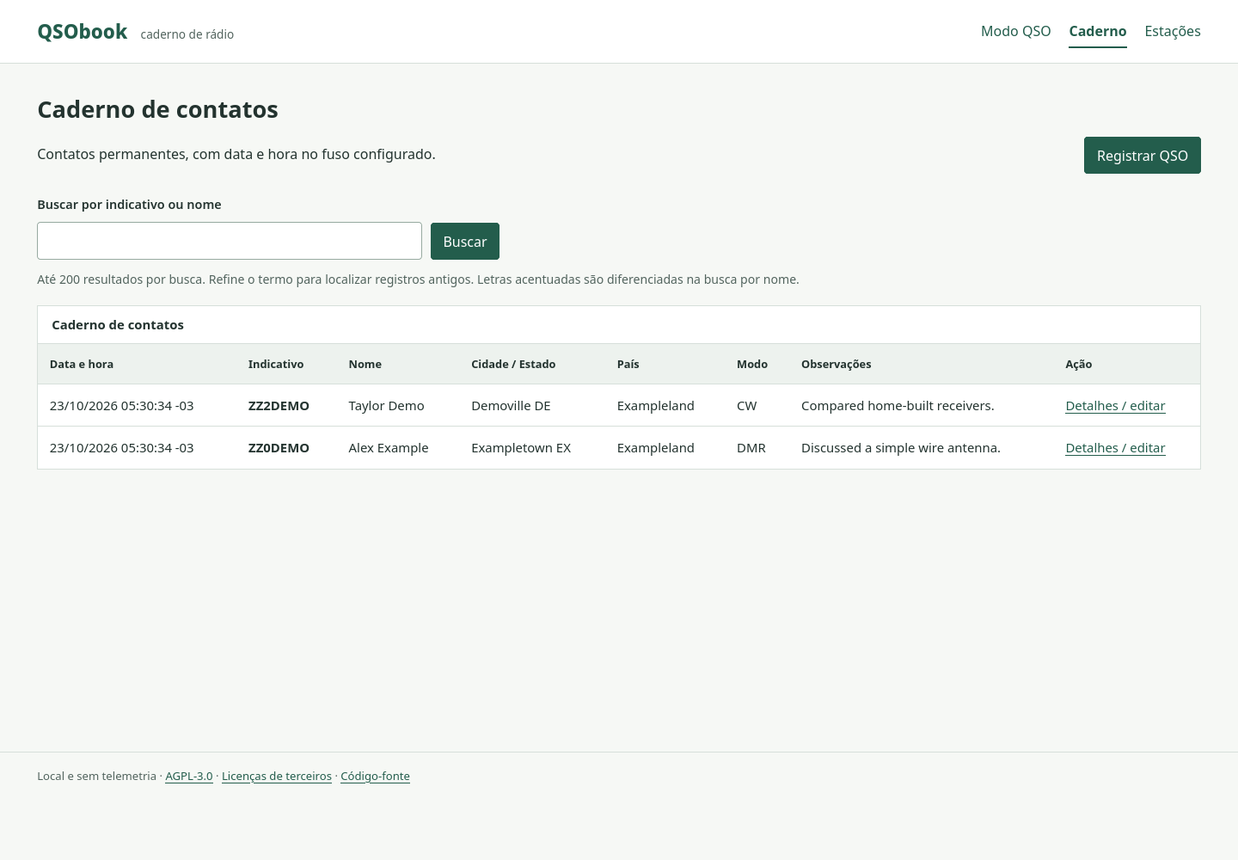
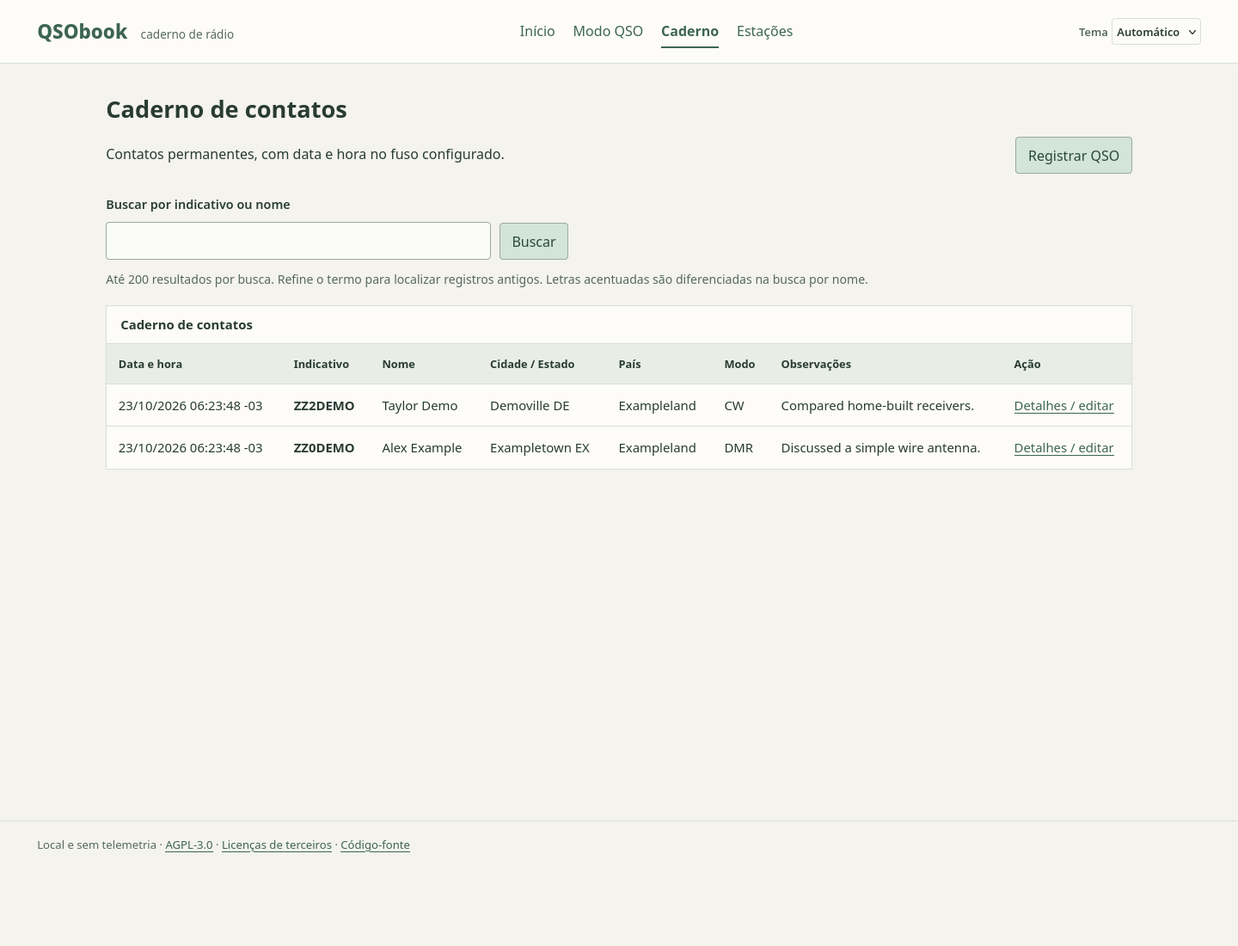
docs: explain themed rounds and optional maps with current screenshots

diff --git a/README.md b/README.md
@@ -2,21 +2,37 @@
 
 A small, free, self-hosted amateur radio notebook. Keep track of operators during a roundtable and record only the contacts you actually confirm.
 
-Built with **Go, SQLite, HTML, CSS and plain JavaScript**, under [AGPL-3.0](LICENSE). No accounts, telemetry, analytics, CDNs or external callsign lookups. The application runs offline after compilation. The interface is currently in Brazilian Portuguese; this documentation is in English.
+Built with **Go, SQLite, HTML, CSS and plain JavaScript**, under [AGPL-3.0](LICENSE). No accounts, telemetry, analytics, CDNs or external callsign lookups. The notebook runs offline after compilation. The optional OpenStreetMap map requires internet only when enabled. The interface is currently in Brazilian Portuguese; this documentation is in English.
+
+## A calm home screen
+
+The home screen shows the number of confirmed contacts, an optional city map and a direct way to start or resume a roundtable. There are no timers, charts or extra dashboard indicators. **Modo QSO** opens the conversation workspace; **Caderno** opens confirmed history; **Estações** opens reusable operator records.
+
+![Home screen with a contact total, a current roundtable and the map awaiting opt-in](docs/screenshots/dashboard.png)
 
 ## QSO mode: follow the conversation
+
+Choose **Iniciar QSO** (Start QSO), optionally name the roundtable, and add participants. The start action opens a roundtable; it does not confirm a contact. Only one roundtable can be open at a time, and it survives browser/server restarts.
 
 Add a callsign, name and city without leaving the current roundtable. Known callsigns recover their operator details from the local database. The table puts callsign, name, city/state and notes first; mode and country stay secondary.
 
 ![QSO mode showing participants, separate operator and conversation notes, and explicit QSO confirmation](docs/screenshots/qso-mode.png)
 
-All screenshots use fictitious operators, callsigns and locations. The example roundtable includes two confirmed contacts and one participant still waiting for confirmation. No personal database is included.
+Screenshots use demonstration data with fictitious operators and callsigns. The example roundtable includes two confirmed contacts and one participant marked QRT without a confirmed contact. No personal database is included.
 
 **Adding a participant does not record a QSO.** Click **Registrar QSO** (Record QSO) once you have actually made contact. Repeated or simultaneous confirmations create at most one QSO for that participation. Adding someone already in the list preserves their mode, conversation notes and confirmation status.
 
-Use **Editar** (Edit) to open an editor in the table. Country and conversation notes are available in an expandable section. Without JavaScript, the same edit link opens a separate page and the forms remain usable.
+Use **Mais → Editar** (More → Edit) to open an editor in the table. Country and conversation notes are available in an expandable section. Without JavaScript, the same edit link opens a separate page and the forms remain usable.
 
-The current roundtable is shared by browser tabs and survives restarts. Removing someone keeps their operator record and confirmed contacts. To record another contact with the same operator, remove and add them again. Removed participation IDs are never reused, so old record/remove forms cannot affect a later participation.
+Click **QRT** when someone leaves. They remain in the table, after active participants; **Voltou** (Returned) makes them active again. Neither action records a QSO or resets its confirmation. **Encerrar QSO** (End QSO) closes the roundtable and preserves participants, notes and confirmed contacts. Closed roundtables can be consulted from the home screen and cannot be changed through old forms.
+
+The current roundtable is shared by browser tabs. Removing someone from the list retains their participation in storage, operator record and confirmed contacts. A new roundtable reuses known operators with a fresh participation and an independent confirmation. For an additional contact within the same roundtable, remove and add the operator again. Participation IDs are never reused; old actions cannot reach the new participation. Start and end actions also handle repeated submissions safely.
+
+## Light and dark, without clutter
+
+A muted pastel palette, clear typography and compact controls keep the conversation table central. Choose **Claro** (Light), **Escuro** (Dark) or **Automático** (System) using the theme selector. The preference stays in the current browser, without an account or network request. If browser storage is blocked, switching still works for the current page.
+
+![QSO mode in the dark theme, with active participants and one QRT participant](docs/screenshots/qso-dark.png)
 
 ## Local callsign lookup and safe notes
 
@@ -43,6 +59,26 @@ Timestamps are stored in UTC and displayed in the configured time zone. Searches
 The **Estações** (Stations) page keeps operator details separate from contact history. Callsigns are unique and normalized to uppercase. Edit names, locations and permanent notes here without rewriting past contacts.
 
 ![Local operator registry with the three fictitious callsigns and their locations](docs/screenshots/operators.png)
+
+## Optional map of confirmed contacts
+
+Enable the map explicitly on the home screen. It groups **confirmed QSO locations**, using the historical city/state/country from each contact rather than a later operator registration edit. Each point represents an approximate city location; selecting it opens the contacts for that city. Contacts without a city are counted in the total but have no map point. The city list and history remain usable offline and without JavaScript.
+
+Expand the city list and choose **Localizar cidade** (Locate city) once for each unmapped city. This sends only the saved city, state and country to the configured geocoder. Callsigns, names and notes stay local. Coordinates and not-found results are cached in SQLite, so reopening the map or repeating a submission does not repeat the lookup. A cached not-found result currently has no retry/reset editor; check the contact location before the first lookup.
+
+![Optional map with a city point for a fictitious contact in São Paulo](docs/screenshots/contact-map.png)
+
+The default providers are OpenStreetMap tiles and Nominatim. Enabling the map permits the tile provider to receive the browser IP, viewed area, browser headers and the application origin as its Referer. The geocoder sees the server IP and geographic query. Disabling the map removes it on reload, blocks new geocoding requests and retains cached coordinates. Reload any other already-open map tabs as well. The preference applies to this local notebook and its browser tabs.
+
+Follow the [Nominatim usage policy](https://operations.osmfoundation.org/policies/nominatim/): deliberate user-triggered searches only, no autocomplete or periodic batch work, an identifying User-Agent, local caching and at most one request per second. QSObook serializes requests through a database lease, enforces a gap after completion, bounds provider timeouts and respects retry delays. Operators running multiple independent instances must consider their combined usage and switch providers if required. The [tile policy](https://operations.osmfoundation.org/policies/tiles/) requires attribution, normal viewport use and normal HTTP caching; no bulk/offline tile download is offered. Provider availability is not guaranteed.
+
+Provider URLs can be changed without updating the application, for example to use self-hosted services:
+
+```sh
+./bin/qsobook -map-tiles-url 'https://tiles.example.org/{z}/{x}/{y}.png' -geocoder-url 'https://geo.example.org/search'
+```
+
+Tiles must be compatible with Leaflet's XYZ format and geocoding must accept Nominatim's structured query and JSON format. URLs require HTTPS, with HTTP allowed for loopback services. Review a provider's privacy and usage terms before enabling it. Leaflet 1.9.4 and its assets are embedded locally under BSD-2-Clause; no runtime CDN, npm toolchain or Leaflet plugin is used.
 
 ## Build
 
@@ -85,9 +121,9 @@ The default time zone is `America/Sao_Paulo`; use `-timezone UTC` for UTC displa
 
 Stop the application and every other process using its database before making a manual copy. Preserve any SQLite journal files. Do not copy only the `.db` file while it is in use. Test a copy at a separate path before relying on it.
 
-Database migrations run in a transaction and retain operator, contact and participation records. Schema version 2 makes participation IDs persistent and non-reusable, retaining existing IDs and QSO links. Databases with a newer schema are rejected; downgrades are not automatic. Make a stopped-database copy before upgrading.
+Database migrations run in a transaction and retain operator, contact and participation records. Schema version 4 includes persistent non-reusable participation IDs, named roundtables, presence status, optional map preferences and cached city coordinates. The previous live list becomes “Rodada anterior” during migration, retaining IDs and QSO links; an empty database waits for an explicit start. Databases with a newer schema are rejected; downgrades are not automatic. Make a stopped-database copy before upgrading.
 
-There is no in-app backup/restore, import/export, ADIF or map feature yet. The application does not permanently delete operators or QSOs. See the [roadmap](docs/ROADMAP.md).
+There is no in-app backup/restore, import/export or ADIF feature yet. The application does not permanently delete operators or QSOs. See the [roadmap](docs/ROADMAP.md).
 
 ## Tests
 
@@ -97,15 +133,15 @@ CGO_ENABLED=0 go vet ./...
 git diff --check
 ```
 
-Tests use temporary databases and fictitious data. They cover persistence, validation, historical snapshots, independent notes, rollback, concurrent confirmation, callsign reuse, HTTP security and migrations from schema version 1. Migration tests verify that records and links survive, failures roll back and removed participation IDs stay unused after reopening the database.
+Tests use temporary databases and fictitious data. They cover persistence, validation, historical snapshots, independent notes, rollback, concurrent confirmation, callsign reuse, round lifecycle/QRT, stale actions, map opt-in, geographic-only requests, local/negative caches, rate limits, provider failures, HTTP security and migrations from earlier schemas. Automated map tests use local HTTP providers, never public geocoding services. Migration tests verify that records and links survive, failures roll back and removed participation IDs stay unused after reopening the database.
 
 JavaScript tests optionally use Node.js and its built-in test runner:
 
 ```sh
-node --test tests/app.test.cjs
+node --test tests/*.test.cjs
 ```
 
-No npm packages are required. The tests run `static/app.js` against a simulated DOM with controlled requests and timers. They do not replace real browser testing.
+No npm packages are required. The tests run lookup/form behavior against a simulated DOM with controlled requests and timers, and verify theme persistence, system changes and unavailable browser storage. They do not replace real browser testing.
 
 To keep development caches and temporary files inside the repository:
 
@@ -117,7 +153,7 @@ export GOTMPDIR="$PWD/.cache/tmp"
 export TMPDIR="$PWD/.cache/tmp"
 ```
 
-The UI uses labels, visible keyboard focus, responsive forms and horizontal scrolling confined to the participant table. Desktop layout, lookup and inline editing have been checked in the browser, along with dimensions at phone/tablet widths. POSTs in the integrated browser were blocked by its mediated origin; writes were checked through HTTP tests and valid-origin local requests. Full testing on a physical phone and with assistive technology remains pending. Security controls were kept in place.
+The UI uses labels, visible keyboard focus, responsive forms and horizontal scrolling confined to the participant table. Desktop layout, local lookup, theme selection/persistence and phone/tablet widths have been checked in the browser. A real geographic-only Nominatim request, loaded OpenStreetMap tiles, a city marker and its filtered-history link were also checked with fictitious contact data. POSTs in the integrated browser were blocked by its mediated origin; writes were checked through HTTP tests and valid-origin local requests. Full testing on a physical phone and with assistive technology remains pending. Security controls were kept in place.
 
 ## Manual QSO checklist
 
@@ -127,33 +163,40 @@ Use a separate database for fictitious test records:
 ./bin/qsobook -db .cache/manual-test.db -addr 127.0.0.1:8081
 ```
 
-1. Open `http://127.0.0.1:8081`. Add `ZZ0TEST`, a name and city. The participant should appear in QSO mode without a new contact in the Notebook.
-2. Use **Editar**, expand the conversation notes section, add a note and save in place.
+1. Open `http://127.0.0.1:8081`, choose **Iniciar QSO**, optionally name the roundtable and start it. Add `ZZ0TEST`, a name and city. The participant should appear in QSO mode without a new contact in the Notebook.
+2. Use **Mais → Editar**, expand the conversation notes section, add a note and save in place.
 3. In Stations, save a different permanent operator note. QSO mode should label the permanent and conversation notes separately.
 4. Enter `zz0test` again. Name and location should fill locally while conversation notes stay empty. An immediate submission, empty fields or a stale inclusion form must not replace saved operator data or duplicate the participation.
 5. Click **Registrar QSO**. Check for one contact in the Notebook with the conversation note. Reloading must not create another QSO.
 6. Edit the operator and roundtable notes. The confirmed contact should keep its historical values.
 7. Switch rapidly between callsigns and clear the callsign field. Check that drafts and asynchronous responses never mix operators.
 8. In a second tab, keep an old record/remove form open. Remove that participant and add another in the first tab. The old action should return not found and leave the new participant untouched.
-9. Stop and restart with the same database. Records and the roundtable should persist. Also check keyboard navigation and the fallback without JavaScript.
+9. Mark a participant **QRT**, then **Voltou**. Confirm that presence changes without a new QSO. End the roundtable, consult it from the home screen and start a new one with the same operator. The old roundtable and contacts should remain intact.
+10. Choose light, dark and system themes, then navigate/reload. Stop and restart with the same database. Check persistence, keyboard navigation and the fallback without JavaScript.
+11. The map starts disabled. Enable it after reading the disclosure, locate a city with a confirmed contact, reload and open its marker/history. Disable it and confirm the local notebook remains usable without map requests. Public providers must only be exercised manually and sparingly; use fake local providers for automated tests.
 
 ## Structure and maintenance
 
 ```text
 main.go                 configuration and HTTP lifecycle
 store.go                SQLite operations and validation
+rounds.go               saved roundtables, presence and lifecycle
+map.go                  optional providers and local coordinate cache
+web_rounds.go           home screen and roundtable HTTP workflows
 web.go                  routes, templates and HTTP protection
 store_test.go           persistence and data integrity tests
 migration_test.go       migration preservation and rollback tests
 web_test.go             HTTP workflows and security tests
-tests/app.test.cjs       JavaScript regressions using built-in modules
+rounds_test.go          lifecycle, QRT and migration regressions
+map_test.go             privacy, cache and provider-failure regressions
+tests/*.test.cjs        JavaScript regressions using built-in modules
 migrations/             versioned SQL schema
 templates/              HTML interface
 static/                 local CSS and JavaScript
 docs/                   architecture, roadmap and screenshots
 ```
 
-The only direct dependency is `modernc.org/sqlite v1.36.3`, a BSD-3-Clause SQLite driver without CGO. Transitive dependencies are pinned in `go.mod`/`go.sum`. See [architecture](docs/ARCHITECTURE.md), [CONTRIBUTING.md](CONTRIBUTING.md) and [AGENTS.md](AGENTS.md). Changes use maintainer review; the application itself does not perform Git operations.
+The only direct Go dependency is `modernc.org/sqlite v1.36.3`, a BSD-3-Clause SQLite driver without CGO. Transitive dependencies are pinned in `go.mod`/`go.sum`. See [architecture](docs/ARCHITECTURE.md), [CONTRIBUTING.md](CONTRIBUTING.md) and [AGENTS.md](AGENTS.md). Changes use maintainer review; the application itself does not perform Git operations.
 
 ## License
 

diff --git a/docs/ARCHITECTURE.md b/docs/ARCHITECTURE.md
@@ -2,7 +2,7 @@
 
 ## Organization
 
-A Go monolith: browser → `net/http` → `html/template` / SQLite operations → a local file. There is one `main` package, without an ORM, SPA or web framework. `main.go` composes configuration, storage and the HTTP server; `web.go` handles HTTP; `store.go` contains persistence and validation. Templates, static assets, migrations, time-zone data and license notices are embedded in the executable. Callsign lookup requests stay local.
+A Go monolith: browser → `net/http` → `html/template` / SQLite operations → a local file. There is one `main` package, without an ORM, SPA or web framework. `main.go` composes configuration, storage and the HTTP server; `web.go` handles core HTTP, `web_rounds.go` composes the home/round workflows, `store.go` contains operator/contact persistence and validation, `rounds.go` manages round lifecycles, and `map.go` implements optional city lookup/cache operations. Templates, static assets, migrations, time-zone data and license notices are embedded in the executable. Callsign lookup requests stay local.
 
 ## SQLite driver and dependencies
 
@@ -18,11 +18,14 @@ Native Linux ARM64 builds and tests are supported without CGO. Current validatio
 
 - `stations`: current operator registration, with a normalized unique callsign, name, city, state, country and permanent notes. A callsign identifies a station; no license verification or external lookup is performed.
 - `qsos`: confirmed contacts linked to a station, with a UTC timestamp, mode, conversation notes and a historical copy of operator details. Registration edits do not change earlier contacts. Editing one contact changes only its copy; callsign and timestamp stay fixed.
-- `participants`: the single current roundtable, with one participation per station, its own mode and conversation notes, and an optional confirmed QSO reference. It persists across restarts and is shared by browser tabs.
+- `rounds`: optional name, UTC start and optional end time. A partial unique index allows only one open roundtable. Closed rounds remain in storage; the home screen lists the latest 50.
+- `participants`: round-scoped participation with its own mode, conversation notes, active/QRT state, optional confirmed QSO reference and optional removal timestamp. A partial unique index permits one visible participation per station per round. Removal hides the entry without deleting it. Participation IDs remain non-reusable.
+- `app_settings`: map opt-in (disabled by default) and a persistent bounded geocoding lease/cooldown.
+- `city_coordinates`: city/state/country keys with cached coordinates or a cached not-found result. The dashboard groups historical confirmed QSO locations, not current station locations.
 
 New participant, manual QSO and registration forms only complete missing fields for existing callsigns. Saved nonempty values take priority over submitted data, including a stale lookup result. Replacing values requires an explicit edit by ID. Empty fields in a participation edit preserve the registration. Conversation flows never write permanent operator notes. The registration editor permits intentionally clearing fields. Explicit concurrent edits still use the last saved values; no version conflict detection is implemented.
 
-Adding someone does not confirm a contact. A repeated addition preserves the existing participation mode, notes and QSO reference; an explicit edit can change the mode or clear conversation notes. Participation writes and registration updates share one transaction. Editing a removed participation does not recreate it. Removing someone retains the operator and confirmed contacts. A later contact with that operator requires removing and adding them again.
+Adding someone does not confirm a contact. A repeated addition preserves the existing participation mode, notes and QSO reference; an explicit edit can change the mode or clear conversation notes. Participation writes and registration updates share one transaction. Editing a removed participation does not recreate it. QRT/return only changes presence. Ending a round retains its participants and confirmed contacts; it never confirms pending participants. New rounds reuse registrations and create independent participations. For another contact within a round, remove and add the operator again. Closed/removed participation actions are rejected before registration updates. Participant edits carry both round and participation IDs, so an old edit cannot reach a re-added operator. Closed round displays use current registration details, explicitly labeled as such; confirmed QSOs retain historical copies.
 
 Confirmation uses a transaction to check the QSO reference, insert the historical copy and conversation notes, and link the QSO atomically. Repeated and simultaneous confirmations cannot duplicate a contact for that participation. Later registration or participation edits do not change the snapshot. Manual QSO creation also updates the operator and inserts its contact in one transaction; every manual submission intentionally represents a new contact.
 
@@ -32,6 +35,9 @@ SQLite uses one connection per process, `foreign_keys=ON`, `busy_timeout=5000` a
 
 - `001_initial.sql` creates the original station, QSO and participant tables.
 - `002_participant_identity.sql` retains all existing participant rows, IDs and QSO links while rebuilding that table with `INTEGER PRIMARY KEY AUTOINCREMENT`. Deleted participation IDs are not reused, including after restarts. Old record/remove forms return not found instead of affecting a new participation.
+
+- `003_rounds.sql` adds named rounds, presence/removal state and QSO round references. A legacy live list becomes “Rodada anterior”, preserving records, links and the AUTOINCREMENT high-water mark even when the old list was empty.
+- `004_map.sql` adds opt-in settings, a geographic coordinate cache and a QSO city index. It sends no network requests and leaves the map disabled.
 
 The complete migration commits only on success. Failure rolls back both data and schema changes. Migration tests cover retained operators, historical contacts, notes, links, ID sequence persistence, SQLite integrity, foreign keys and failure rollback. There is no automatic downgrade: copy the stopped database before upgrading and restart the updated application so old forms receive a new CSRF token.
 
@@ -47,7 +53,7 @@ Callsigns accept 1–32 ASCII characters: letters, numbers, `/`, `.` and `-`, st
 
 The server accepts loopback IPs only, defaulting to `127.0.0.1:8080`. External Host headers are rejected to reduce DNS rebinding risk. Writes use POST, a cryptographically random per-run CSRF token, constant-time comparison and Origin verification when present. The token does not authenticate users; old forms need reloading after a restart. Form bodies are limited to 32 KiB, with HTTP header and timeout limits. Mutable values come from the POST body.
 
-`html/template` escapes values. CSP restricts resources to the local origin and blocks frames, inline scripts and external form submission. Responses set `nosniff`, `no-referrer`, frame protection and `Cache-Control: no-store`. Internal errors and form contents are not logged or shown to users. Standard server connection errors may appear in operational logs without application records. No security exception was introduced for screenshots or the integrated browser.
+`html/template` escapes values. CSP restricts resources to the local origin and blocks frames, inline scripts and external form submission. Only the opted-in home page additionally permits images from the configured tile origin. A Leaflet tile-image `referrerPolicy=origin` satisfies the tile provider requirement without sharing query paths or operator details; the global no-referrer policy is retained. Responses set `nosniff`, `no-referrer`, frame protection and `Cache-Control: no-store`. Internal errors and form contents are not logged or shown to users. Standard server connection errors may appear in operational logs without application records. No security exception was introduced for screenshots or the integrated browser.
 
 The main UI is a table with semantic HTML, labels and visible keyboard focus. The quick form and inline editors share compact fields; country and conversation notes use `details`. Mode and country are secondary cell information. Permanent and conversation notes are labeled separately. Edit links retain a separate-page fallback without JavaScript. Inclusion validation retains the submitted form and the participant table.
 
@@ -55,4 +61,20 @@ CSS confines horizontal scrolling to the table. JavaScript debounces local `/loo
 
 JavaScript prevents repeated submission while a form is pending and restores controls on back navigation. SQLite provides the confirmation integrity guarantee; the UI guard is supplementary. Without JavaScript, registration, editing, queries and confirmation still work with manual entry. `tests/app.test.cjs` uses only built-in Node.js modules and a simulated DOM to test request ordering and form behavior.
 
-Authentication, user isolation and LAN access are not implemented. The host clock, account security and private storage are deployment responsibilities. TLS, proxying or network exposure require a separate access-model decision. Maps, geocoding and external services are not implemented.
+Authentication, user isolation and LAN access are not implemented. The host clock, account security and private storage are deployment responsibilities. TLS, proxying or network exposure require a separate access-model decision. The optional map is the only external integration. Leaflet 1.9.4 (BSD-2-Clause) is vendored with its license and served locally. Script/style SHA-256 values match the official distribution. No npm packages, map plugins, Go dependencies or frontend framework were added.
+
+## Round lifecycle and theme
+
+Starting a round uses a transaction, the single-open-round index and the last known round ID to make repeated starts safe. Replaying a start after its round closed cannot silently open a new one. Ending a specific round is idempotent and cannot close a different round. Participant inclusion, editing, QRT and confirmation validate that their round is still open. Confirmation atomically copies the registration into `qsos` and associates the round. Closing a round performs no contact insertion.
+
+Light/dark palettes use CSS variables. A small local head script applies the saved browser preference before rendering; system mode follows `prefers-color-scheme`. Only the theme preference uses localStorage. Contact drafts remain in page memory and are not written to browser storage. Storage failures leave the theme switch usable for the current page.
+
+## Optional geographic services
+
+The map is disabled by default and requires conscious opt-in with provider/privacy disclosure. Opening an enabled map requests only the final visible tile viewport. Browser HTTP caching is retained; there is no tile scraping, prefetching or offline download. Map markers and popup text come from local grouped contact data and use DOM text nodes, never operator-supplied HTML.
+
+Each geocoding request requires an explicit POST for an existing confirmed-contact city. Only city, state, country, format and result limit go to the provider. Names, callsigns and notes are excluded. Both coordinates and no-match responses are cached locally; a not-found cache entry currently has no reset editor. Provider requests identify QSObook, have an eight-second timeout, do not follow redirects and have bounded JSON responses with finite/range-checked coordinates.
+
+A SQLite lease serializes requests even across processes sharing the database. It expires after fifteen seconds if a process stops, and normal completion sets a further gap of at least 1.1 seconds. Error responses impose a cooldown and respect numeric/date Retry-After delays up to one day. Independent databases/instances require the operator to manage aggregate public-provider usage. No background geocoding, autocomplete, periodic work or external callsign lookup is present.
+
+`-map-tiles-url` and `-geocoder-url` permit provider changes without a code update. HTTPS is required except for loopback HTTP services. Configuration is trusted operator input, never a request-supplied destination. Provider failure does not change contacts or registrations. The city list and contact history remain available without internet or JavaScript. See the [README](../README.md) for provider policy links and manual checks.

diff --git a/SECURITY.md b/SECURITY.md
@@ -25,10 +25,10 @@ Keep data local, avoid unnecessary exposure and never introduce telemetry. Fix d
 - Parameterized SQL, server-side validation and automatically escaped templates.
 - Writes restricted to POST, a per-run CSRF token, Origin verification and rejection of external Host values.
 - Form bodies limited to 32 KiB, bounded headers and HTTP timeouts, and errors without internal details.
-- CSP for local resources, frame blocking, `nosniff`, `no-referrer` and no-store responses.
+- CSP for local resources, frame blocking, `nosniff`, `no-referrer` and no-store responses. An opted-in home page additionally permits images from the configured tile origin; tile images send only the application origin as Referer.
 - A local database file with `0600` permissions and new directories with `0700`; databases, configuration and backups are never static assets.
-- No automatic transmission to third parties, external callsign lookup or telemetry.
+- No telemetry or external callsign lookup. Maps are disabled by default and require opt-in. Enabled maps request the viewed tile area; explicit geocoding requests send geographic fields only, with local caching and request limits.
 
-The CSRF token does not authenticate users. Processes and people with access to the OS account or local port can access contacts. Reload old forms after restarting the server. Use a private directory: existing directory permissions are not changed. There is no database encryption or in-app backup. Stop every database user before manual copies and test restoration separately. The source-code link is only requested when a user opens it.
+The CSRF token does not authenticate users. Processes and people with access to the OS account or local port can access contacts. Reload old forms after restarting the server. Use a private directory: existing directory permissions are not changed. There is no database encryption or in-app backup. Stop every database user before manual copies and test restoration separately. External license, policy and source links are only requested when opened. Maps use the disclosed providers only after opt-in. The tile provider receives the browser IP and view area; the geocoder receives the server IP and city/state/country. Disable the map and reload other already-open map tabs to stop their future tile requests. New geocoding requests are rejected immediately after disabling. No contacts or notes are sent to those providers.
 
 Dependencies are pinned in `go.mod`/`go.sum`; this does not replace security notice review and updates. There is no external audit or configured vulnerability scanner. See [architecture](docs/ARCHITECTURE.md) for the embedded SQLite version and storage limits.

diff --git a/AGENTS.md b/AGENTS.md
@@ -53,10 +53,14 @@ These instructions apply to the entire QSObook repository. Read existing files a
 
 ## Current implementation
 
-- One root Go package: `main.go`, `store.go`, `web.go` and tests. Templates, assets, migrations and license notices are embedded.
+- One root Go package: `main.go`, `store.go`, `rounds.go`, `map.go`, `web.go`, `web_rounds.go` and tests. Templates, assets, migrations and license notices are embedded.
 - `modernc.org/sqlite` runs without CGO. Keep its required `modernc.org/libc` version aligned; changes require ARM64 and license checks.
 - Preserve the distinction between current registrations (`stations`), historical contact copies (`qsos`) and roundtable participation (`participants`). Do not propagate registration edits into old QSOs.
-- Use transactional migrations versioned by `PRAGMA user_version`, preserving records and rejecting future versions. Version 2 keeps participant IDs non-reusable across removals and restarts.
+- Use transactional migrations versioned by `PRAGMA user_version`, preserving records and rejecting future versions. Version 4 includes rounds and optional map settings/cache; keep legacy participants, QSO links and ID high-water marks intact.
 - Run `CGO_ENABLED=0 go test ./...`, `CGO_ENABLED=0 go vet ./...` and `CGO_ENABLED=0 go build -o bin/qsobook .`. Keep caches/temporary files in `.cache/` when required; see the README.
-- Optional JavaScript regressions use `node --test tests/app.test.cjs`, without npm packages.
+- Optional JavaScript regressions use `node --test tests/*.test.cjs`, without npm packages.
 - Never develop/test using the default personal database or start a persistent server. Temporary preview servers must use an isolated database, stay on loopback and be stopped after use.
+
+- Keep maps disabled until explicit opt-in. Leaflet 1.9.4 is vendored locally with BSD-2-Clause notices. No external scripts/CDNs or map plugins are needed.
+- Geocode only a user-selected confirmed-contact city, never autocomplete or a background batch. Retain coordinate/negative caches, geographic-only queries, identifying User-Agent, bounded requests, lease/cooldowns and provider flags. Use fake local providers for automated tests; review provider policies before any manual external check.
+- Preserve the narrow tile-image CSP exception on the opted-in home page and origin-only tile Referer. Do not broaden script, frame, Host, Origin or CSRF policies for maps.

diff --git a/docs/ROADMAP.md b/docs/ROADMAP.md
@@ -24,6 +24,16 @@ No dates are promised. Planned features are not available until implemented and 
 
 Current checks run on Linux AMD64 with Go 1.27.3 and CGO disabled, including an ARM64 cross-build. The initial implementation was validated natively on ARM64. This revision still needs execution on Raspberry Pi, physical-phone testing and assistive-technology review. Explicit concurrent edits retain last-write-wins behavior. No vulnerability scanner is configured.
 
+## Implemented conversation workspace and home
+
+- Muted pastel light/dark palettes with a browser-local selector and system mode.
+- An essential home screen with confirmed-contact count and recent saved rounds.
+- Explicit round start/end, optional names, QRT/return state and read-only closed rounds.
+- Legacy participant preservation, non-reusable IDs and rejection of stale cross-round edits/actions.
+- Optional Leaflet/OpenStreetMap city points from confirmed historical contacts, grouped by location with links to city history.
+- Map opt-in, locally vendored assets, geographic-only manual geocoding, coordinate/negative caches, bounded requests and provider switching.
+- Tests for lifecycle, migration rollback, QRT, map privacy, caching, rate limits and provider failures; screenshots for the current UI.
+
 ## Data preservation and portability — planned
 
 - Export/import with documented formats and explicit duplicate handling.
@@ -34,12 +44,6 @@ Current checks run on Linux AMD64 with Go 1.27.3 and CGO disabled, including an 
 ## Interoperability — planned
 
 - Evaluate ADIF with explicit field conversion and no silent loss.
-
-## Optional integrations — planned
-
-- OpenStreetMap maps/geocoding only after informed opt-in, disabled by default, with provider, attribution and transmitted geographic data disclosed.
-- No personal operator data sent to geographic providers.
-- Missing internet or provider failure must never block the local notebook.
 
 ## Possible future work
 

diff --git a/CONTRIBUTING.md b/CONTRIBUTING.md
@@ -31,7 +31,7 @@ Use clear English commit messages describing intent. No additional contribution 
 
 Prefer the Go standard library, idiomatic names, `gofmt`, explicit errors, parameterized SQL and behavior-focused tests. Justify dependencies and their impact on ARM64, licensing and CGO. Do not incidentally change the module path or declared Go version.
 
-Run `CGO_ENABLED=0 go test ./...`, `CGO_ENABLED=0 go vet ./...` and `CGO_ENABLED=0 go build -o bin/qsobook .`. Use temporary databases and fictitious records; tests must not depend on external services or touch real data. Changes affecting portability must verify Linux ARM64 and state environment limitations. See the README for repository-local caches. HTTP tests use `httptest`, without persistent services. Optional JavaScript checks use `node --test tests/app.test.cjs` and built-in modules only.
+Run `CGO_ENABLED=0 go test ./...`, `CGO_ENABLED=0 go vet ./...` and `CGO_ENABLED=0 go build -o bin/qsobook .`. Use temporary databases and fictitious records; tests must not depend on external services or touch real data. Changes affecting portability must verify Linux ARM64 and state environment limitations. See the README for repository-local caches. HTTP tests use `httptest`, without persistent services. Optional JavaScript checks use `node --test tests/*.test.cjs` and built-in modules only.
 
 For documentation, review clarity, relative links and screenshots, then run `git diff --check`. Preserve `go.mod`, `go.sum`, SQL, static assets and required synthetic fixtures. SQLite exceptions under `testdata/` do not authorize personal data.
 
